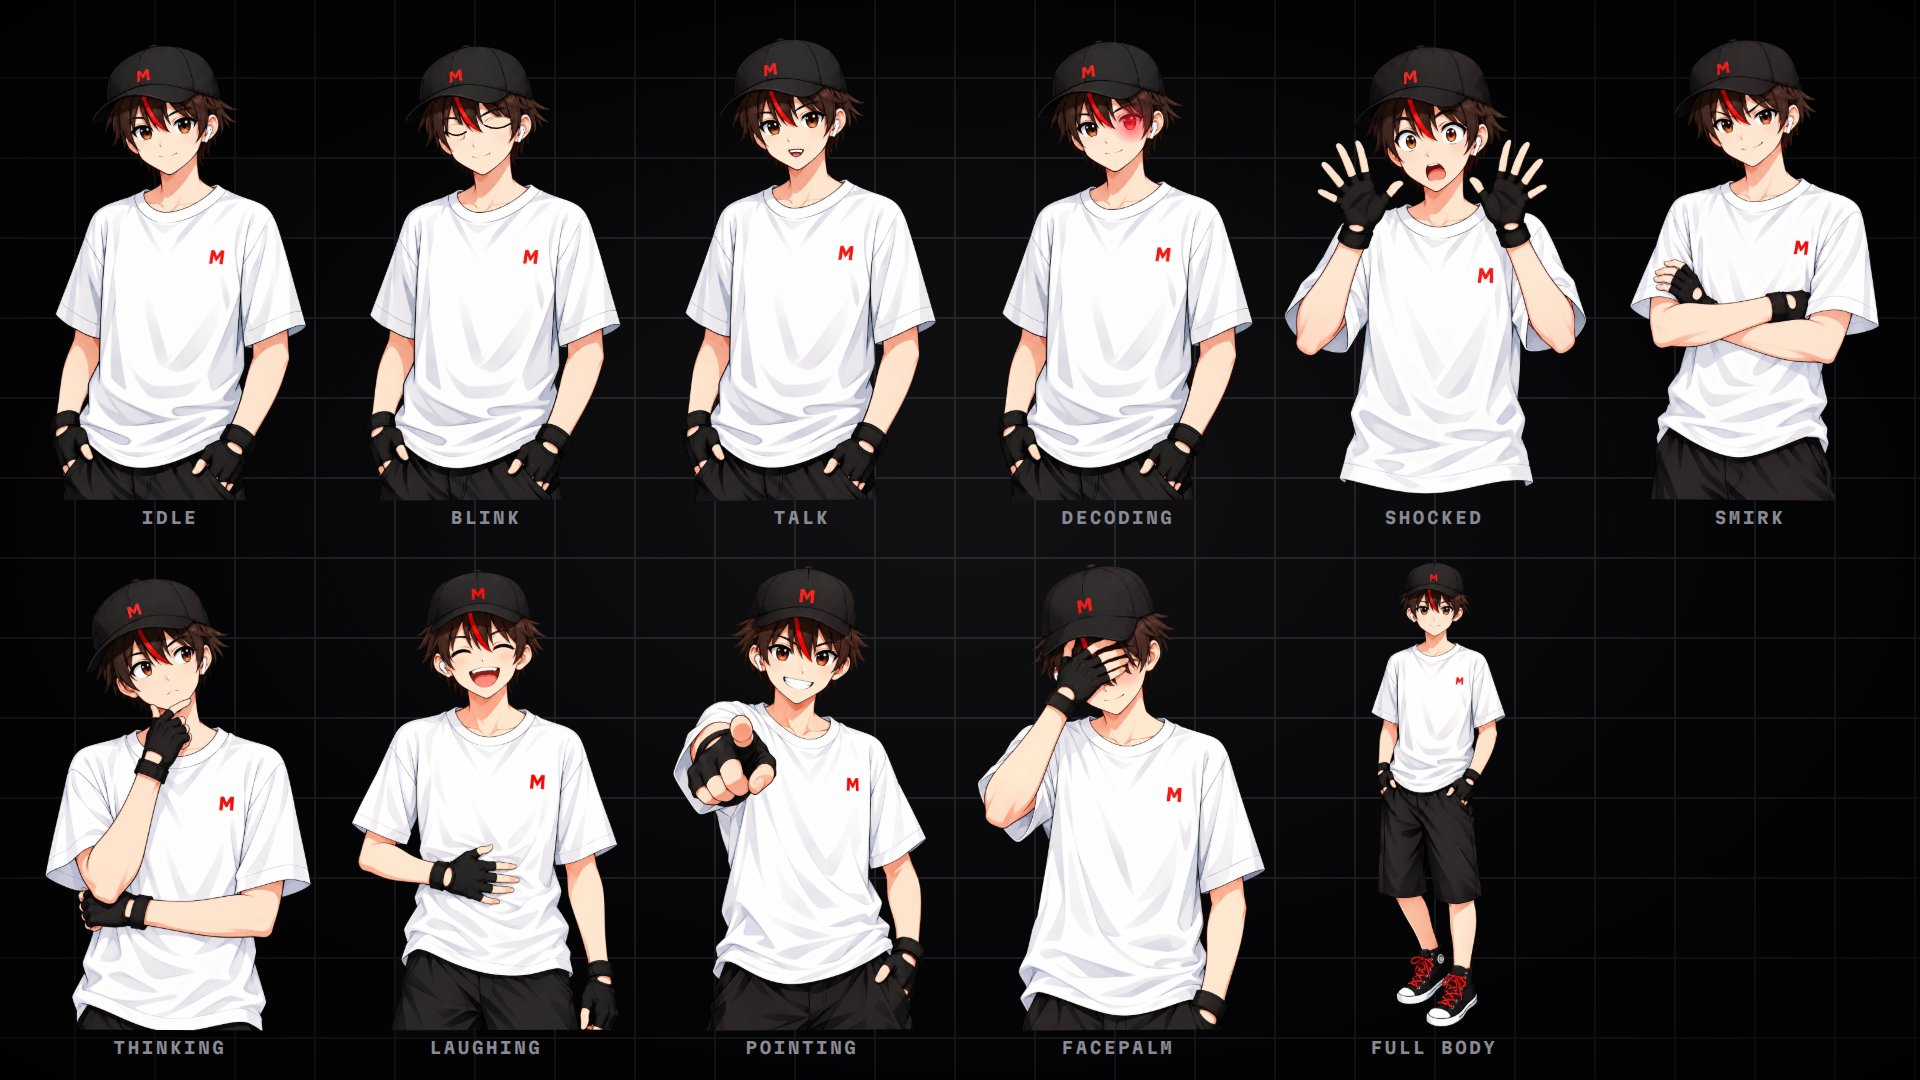
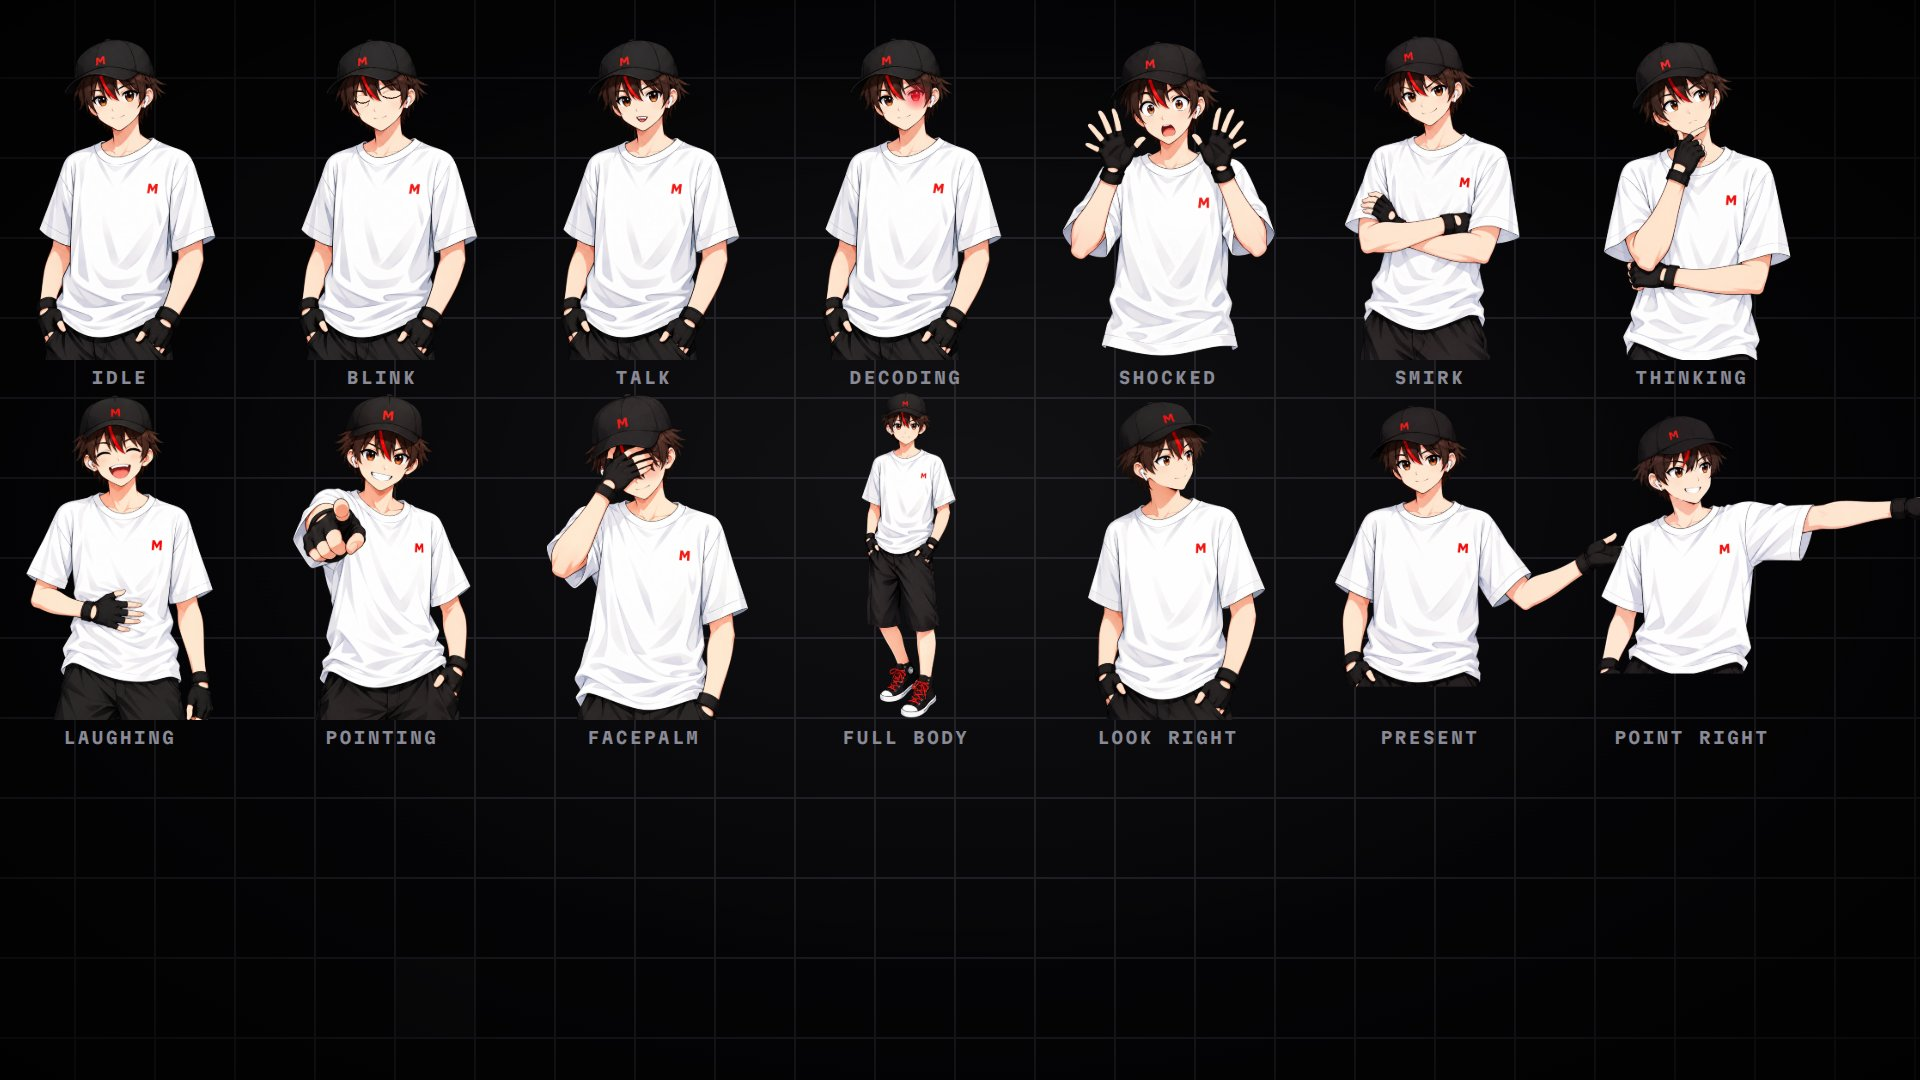
Vio: look-right, present and point-right poses normalised to the idle scale; rebuild script
Claude-Session: https://claude.ai/code/session_01NGeyoeTN3DjgSSG3jjvUCj

diff --git a/studio/src/vio/Vio.tsx b/studio/src/vio/Vio.tsx
@@ -4,14 +4,21 @@
 // keyed to public/vio/*.png, 1024×1536 each, same framing). The idle pose talks and blinks through
 // overlays drawn in the image's own pixel space, so the face never shifts between frames.
 // Anchor: bottom-centre at (x, y); size = rendered height in px. Place him on the LEFT third of the frame
-// with the story content on the right (owner's note). Never flip: it mirrors the red "M" logos.
+// with the story content on the right (owner's note). Put the anchor ~15% of `size` below the frame edge
+// (y = 1080 + 0.15 * size): the arm poses are cut at the waist, and this keeps that cut off screen. Never flip: it mirrors the red "M" logos.
 import React from 'react';
 import { Img, staticFile } from 'remotion';
 import { useTF } from '../tg/kit';
 import { springAt, clamp } from '../lib/time';
 
-export type VioPose = 'idle' | 'shocked' | 'smirk' | 'thinking' | 'laughing' | 'pointing' | 'facepalm' | 'full';
-const FILE: Record<VioPose, string> = { idle: 'idle', shocked: 'shocked', smirk: 'smirk', thinking: 'thinking', laughing: 'laughing', pointing: 'pointing', facepalm: 'facepalm', full: 'master' };
+export type VioPose = 'idle' | 'shocked' | 'smirk' | 'thinking' | 'laughing' | 'pointing' | 'facepalm' | 'full' | 'present' | 'pointright' | 'lookright';
+// file + canvas width (all canvases are 1536 tall and share the idle pose's scale and origin; the arm poses
+// are wider to the right, see tools-py/vio_build.sh). 'pointing' points at the viewer / to screen-left;
+// on the left-hand side of the frame use 'pointright', 'present' or 'lookright' toward the content.
+const FILE: Record<VioPose, [string, number]> = {
+  idle: ['idle', 1024], shocked: ['shocked', 1024], smirk: ['smirk', 1024], thinking: ['thinking', 1024], laughing: ['laughing', 1024], pointing: ['pointing', 1024],
+  facepalm: ['facepalm', 1024], full: ['master', 1024], present: ['present', 1600], pointright: ['pointright', 1840], lookright: ['lookright', 1024],
+};
 export const VIO_POSES = Object.keys(FILE) as VioPose[];
 const SKIN = 'rgb(253,227,204)', LASH = '#1c0b06';
 
@@ -26,7 +33,8 @@ export const Vio: React.FC<{
   seed?: number; flip?: boolean; tilt?: number; blink?: boolean;
 }> = ({ x, y, size = 700, pose = 'idle', talk = 0, decode = 0, at, seed = 1, flip = false, tilt = 0, blink }) => {
   const { t, f, fps } = useTF();
-  const w = size * (1024 / 1536);
+  const [file, W] = FILE[pose];
+  const u = size / 1536, w = W * u;
   const enter = at == null ? 1 : springAt(f, fps, at, { damping: 13, stiffness: 190 });
   // the body stays still while he talks (owner's note): only the mouth moves; a very slow breath keeps him alive
   const breathe = Math.sin(t * 1.4 + seed) * 0.003;
@@ -35,13 +43,13 @@ export const Vio: React.FC<{
   const k = clamp(talk);
   return (
     <div style={{
-      position: 'absolute', left: x, top: y, width: w, height: size,
-      transform: `translate(-50%,-100%) translateY(${(1 - enter) * 60}px) rotate(${sway}deg) scale(${(flip ? -1 : 1) * (0.92 + 0.08 * enter)}, ${(0.92 + 0.08 * enter) * (1 + breathe)})`,
-      transformOrigin: '50% 100%', opacity: clamp(enter * 1.6),
+      position: 'absolute', left: x - 512 * u, top: y - size, width: w, height: size,
+      transform: `translateY(${(1 - enter) * 60}px) rotate(${sway}deg) scale(${(flip ? -1 : 1) * (0.92 + 0.08 * enter)}, ${(0.92 + 0.08 * enter) * (1 + breathe)})`,
+      transformOrigin: `${512 * u}px 100%`, opacity: clamp(enter * 1.6),
     }}>
-      <Img src={staticFile(`vio/${FILE[pose]}.png`)} style={{ width: '100%', height: '100%', display: 'block' }} />
+      <Img src={staticFile(`vio/${file}.png`)} style={{ width: '100%', height: '100%', display: 'block' }} />
       {pose === 'idle' && (
-        <svg viewBox="0 0 1024 1536" width="100%" height="100%" style={{ position: 'absolute', inset: 0 }}>
+        <svg viewBox="0 0 1024 1536" width={1024 * u} height={size} style={{ position: 'absolute', left: 0, top: 0 }}>
           <defs><filter id={`vioM${seed}`}><feGaussianBlur stdDeviation={1.5} /></filter><radialGradient id={`vioG${seed}`}><stop offset="0" stopColor="#ff2b3d" stopOpacity={0.75} /><stop offset="1" stopColor="#ff2b3d" stopOpacity={0} /></radialGradient></defs>
           {shut && <>
             <defs><filter id={`vioF${seed}`}><feGaussianBlur stdDeviation={1.3} /></filter></defs>

diff --git a/studio/src/vio/Sheet.tsx b/studio/src/vio/Sheet.tsx
@@ -9,15 +9,16 @@ import { Vio, type VioPose } from './Vio';
 const CELLS: [VioPose, string, { talk?: number; decode?: number; blink?: boolean }][] = [
   ['idle', 'IDLE', { blink: false }], ['idle', 'BLINK', { blink: true }], ['idle', 'TALK', { talk: 0.9, blink: false }], ['idle', 'DECODING', { decode: 1, blink: false }],
   ['shocked', 'SHOCKED', {}], ['smirk', 'SMIRK', {}], ['thinking', 'THINKING', {}], ['laughing', 'LAUGHING', {}], ['pointing', 'POINTING', {}], ['facepalm', 'FACEPALM', {}], ['full', 'FULL BODY', {}],
+  ['lookright', 'LOOK RIGHT', {}], ['present', 'PRESENT', {}], ['pointright', 'POINT RIGHT', {}],
 ];
 export const VioSheet: React.FC = () => (
   <AbsoluteFill>
     <GridBg />
     {CELLS.map(([pose, label, o], i) => {
-      const cx = 170 + (i % 6) * 316, cy = 500 + Math.floor(i / 6) * 530;
+      const cx = 120 + (i % 7) * 262, cy = 360 + Math.floor(i / 7) * 360;
       return (
         <React.Fragment key={i}>
-          <Vio x={cx} y={cy} size={470} pose={pose} seed={i + 2} {...o} />
+          <Vio x={cx} y={cy} size={330} pose={pose} seed={i + 2} {...o} />
           <div style={{ position: 'absolute', left: cx, top: cy + 8, transform: 'translateX(-50%)' }}><Mono size={20} color={A.dim}>{label}</Mono></div>
         </React.Fragment>
       );

diff --git a/tools-py/vio_fit.py b/tools-py/vio_fit.py
@@ -1,0 +1,13 @@
+# Normalise a keyed Vio pose to the idle pose's scale and position: scale by s, then paste at (dx, dy) on a
+# transparent 1536-tall canvas of width W, so the shirt "M" lands where the idle pose has it (663, 737).
+# Poses with a long arm get a wider canvas (to the right). Usage: python3 vio_fit.py in.png out.png s dx dy W
+import sys
+from PIL import Image
+src, dst, s, dx, dy, W = sys.argv[1], sys.argv[2], float(sys.argv[3]), int(sys.argv[4]), int(sys.argv[5]), int(sys.argv[6])
+im = Image.open(src).convert('RGBA')
+im = im.resize((round(im.width * s), round(im.height * s)), Image.LANCZOS)
+out = Image.new('RGBA', (W, 1536), (0, 0, 0, 0))
+cx, cy = max(0, -dx), max(0, -dy)
+out.alpha_composite(im.crop((cx, cy, im.width, im.height)), (max(0, dx), max(0, dy)))
+out.save(dst, optimize=True)
+print(dst, out.size)

diff --git a/CLAUDE.md b/CLAUDE.md
@@ -50,7 +50,8 @@ smirk, thinking, laughing, pointing, facepalm, full; the idle pose lip-syncs via
 blinks, and has a red "decoding" eye). Voice says his name as "Vee-oh". Use him for the hook, reactions on
 big beats and the end question, not wall to wall. Owner's rules: he stands on the LEFT third (content on
 the right; viewers look left first), and while he talks only his mouth moves, the body stays still (no
-bounce). Never flip the image (it mirrors the red "M"). For thumbnails, the owner uploads the master image as the
+bounce). Never flip the image (it mirrors the red "M"); on the left use 'pointright' / 'present' / 'lookright' to
+point or look at the content, and set the anchor y = 1080 + 0.15 * size so the waist cut stays off screen. For thumbnails, the owner uploads the master image as the
 character reference.
 
 **Owner's style notes (adopted from video #3 on):**
